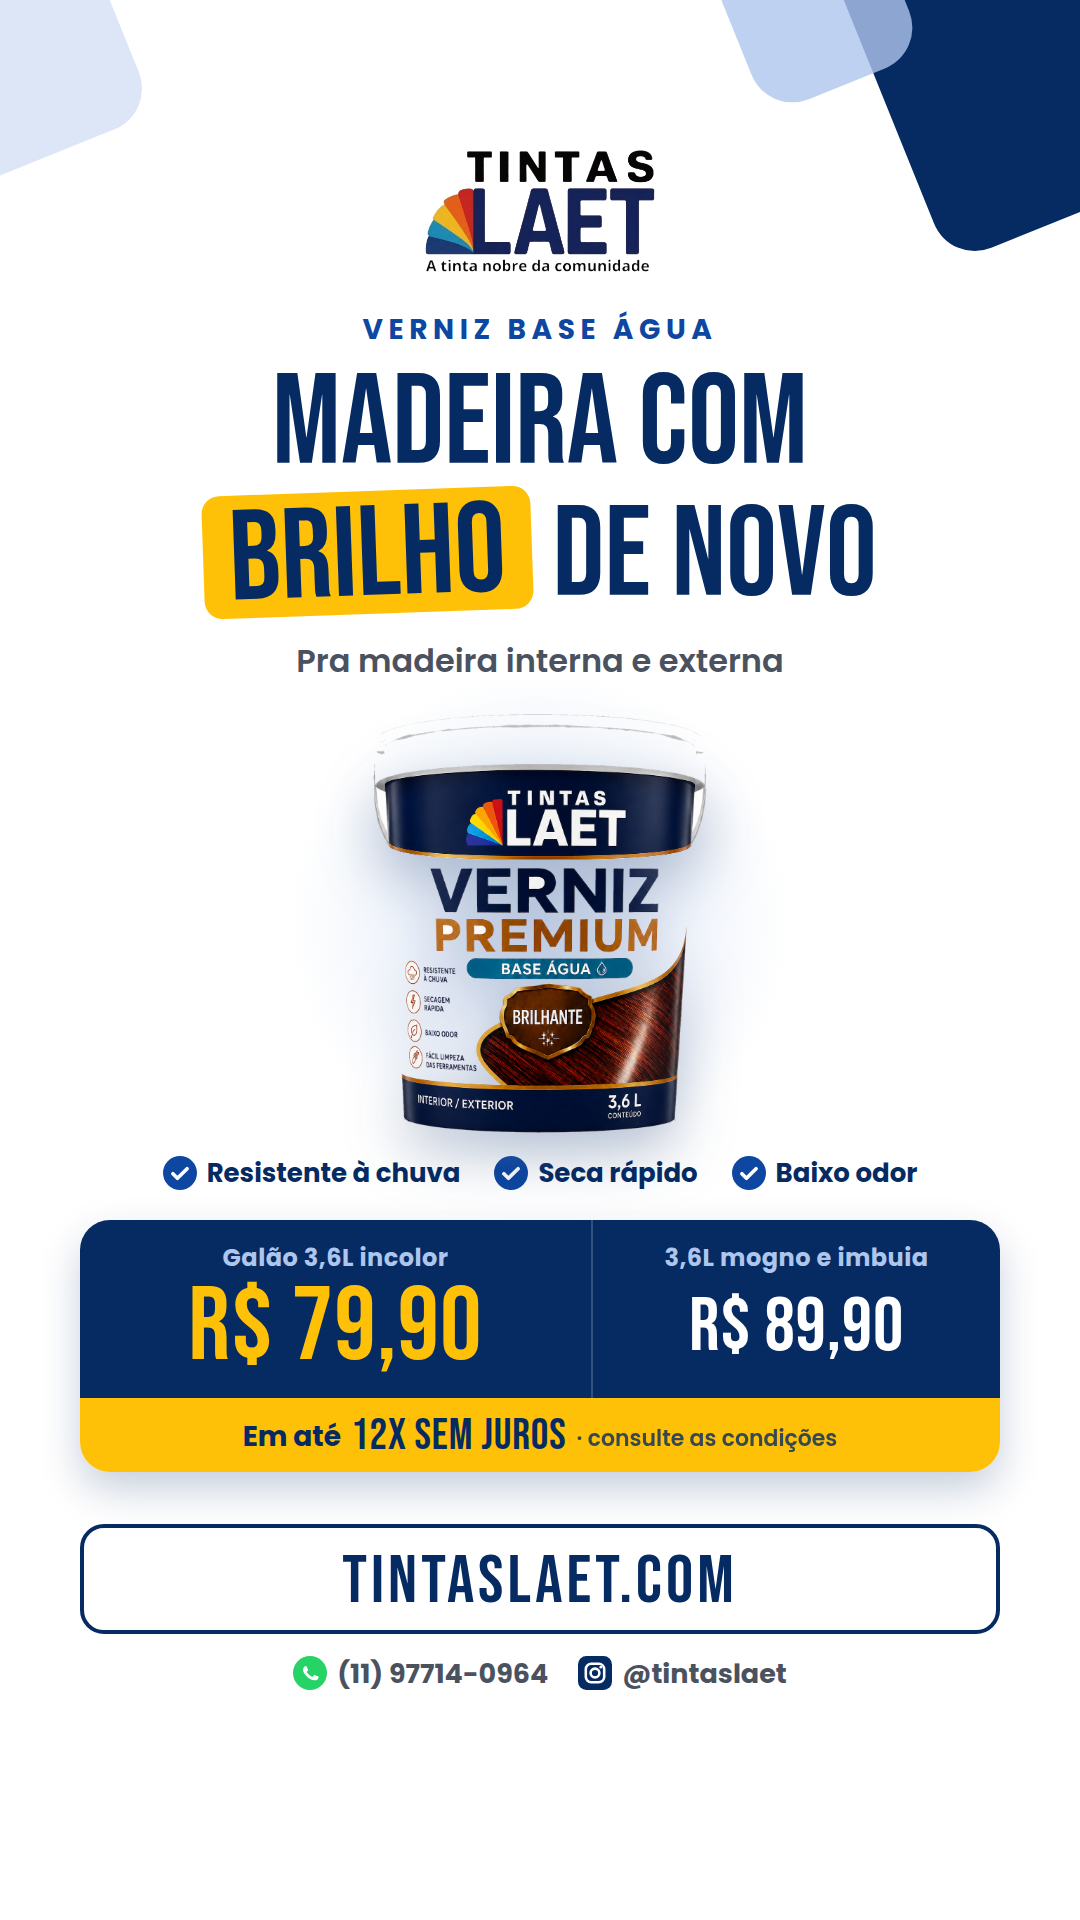
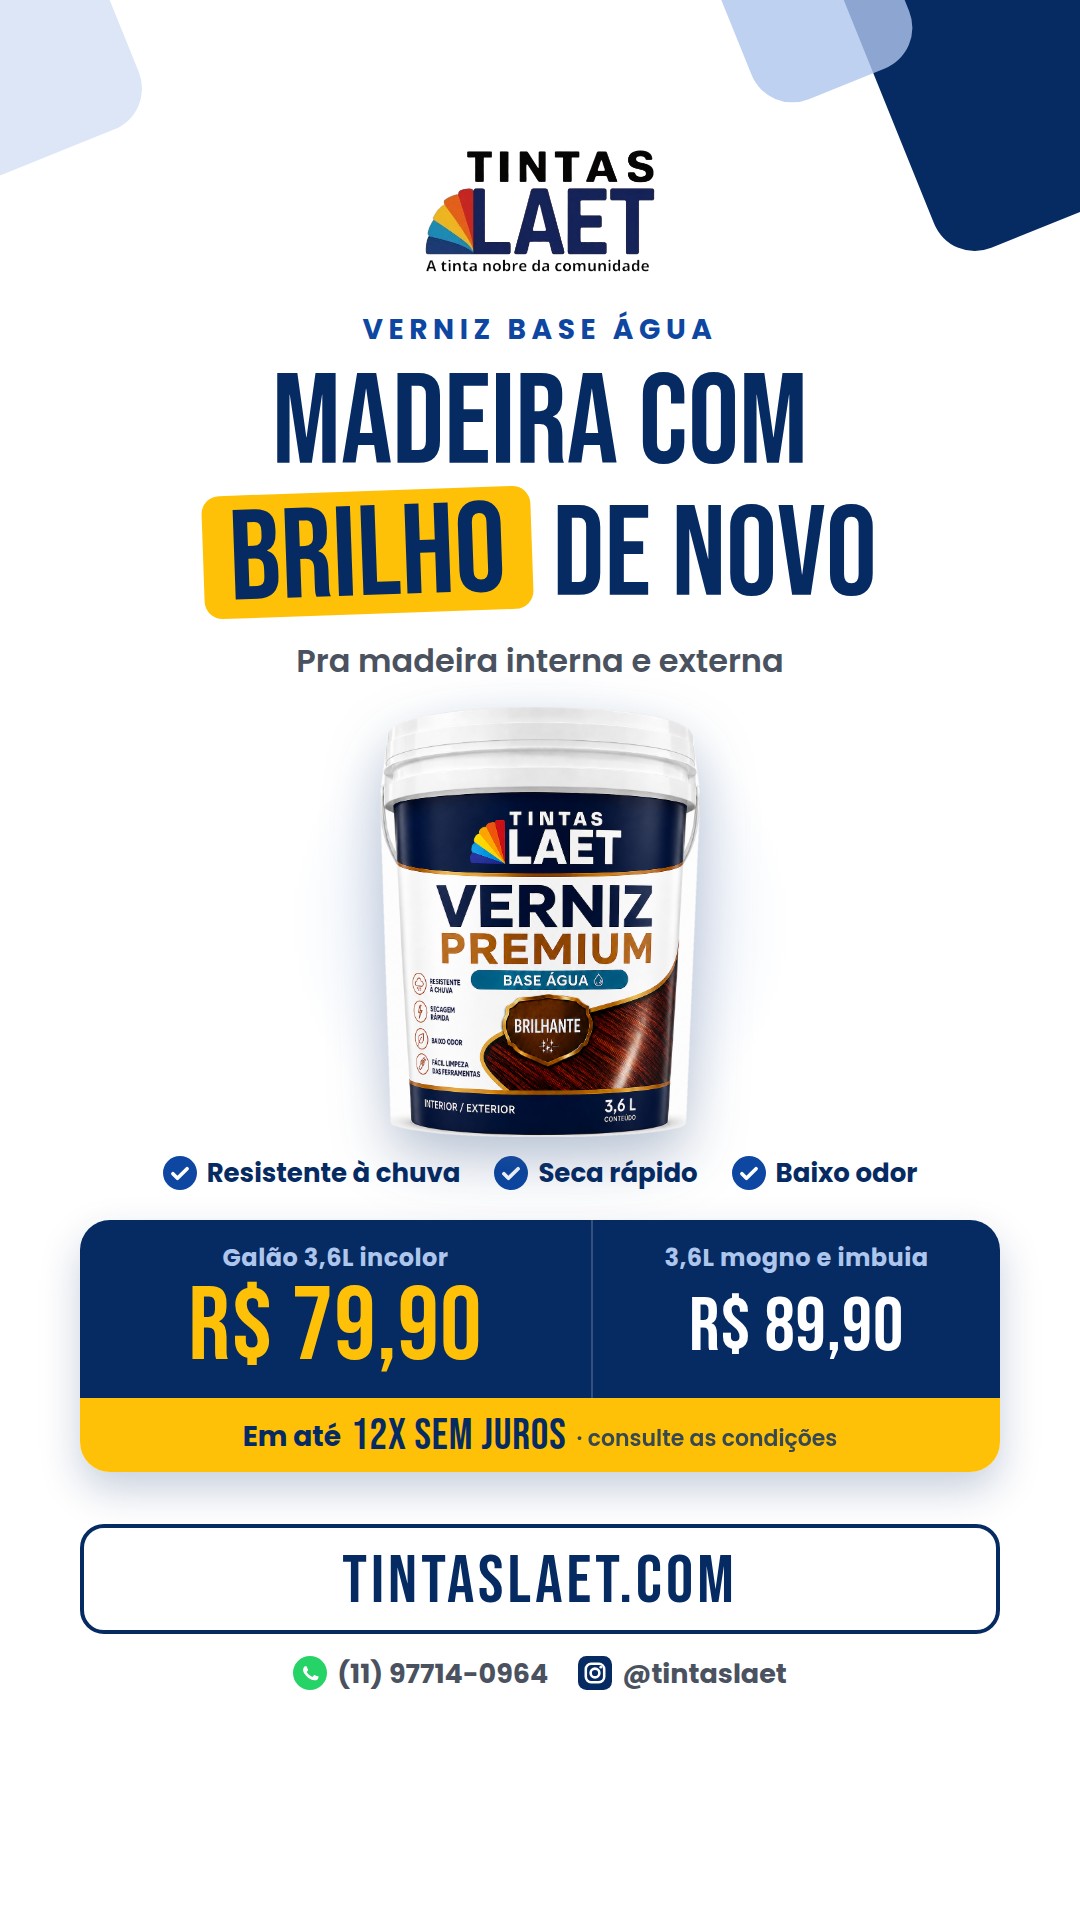
Story do verniz com imagem HD da embalagem (sem fundo)
Claude-Session: https://claude.ai/code/session_01T1juQ1HtmtgQCZ8aLE8q1u

Changed region(s): [[0.3361, 0.3438, 0.6722, 0.5938]]

diff --git a/marketing/stories/2026-10/14-produtos-individuais/modelo.html b/marketing/stories/2026-10/14-produtos-individuais/modelo.html
@@ -186,7 +186,7 @@ h1 .g{display:inline-block;line-height:.9;background:var(--amarelo);padding:8px 
     <div class="ey">Verniz Base Água</div>
     <h1>Madeira com<br><span class="g">brilho</span> de novo</h1>
     <div class="sub">Pra madeira interna e externa</div>
-    <div class="foto"><img src="img/verniz-site.png" alt="Verniz Base Água"></div>
+    <div class="foto"><img src="img/verniz-hd.png" alt="Verniz Base Água"></div>
     <div class="bul"><span><svg viewBox="0 0 24 24"><circle cx="12" cy="12" r="12" fill="#0D47A1"/><path d="M7 12.5l3.2 3.2L17 9" fill="none" stroke="#fff" stroke-width="2.6" stroke-linecap="round" stroke-linejoin="round"/></svg>Resistente à chuva</span><span><svg viewBox="0 0 24 24"><circle cx="12" cy="12" r="12" fill="#0D47A1"/><path d="M7 12.5l3.2 3.2L17 9" fill="none" stroke="#fff" stroke-width="2.6" stroke-linecap="round" stroke-linejoin="round"/></svg>Seca rápido</span><span><svg viewBox="0 0 24 24"><circle cx="12" cy="12" r="12" fill="#0D47A1"/><path d="M7 12.5l3.2 3.2L17 9" fill="none" stroke="#fff" stroke-width="2.6" stroke-linecap="round" stroke-linejoin="round"/></svg>Baixo odor</span></div>
     <div class="preco">
       <div class="lin">

diff --git a/marketing/stories/2026-10/14-produtos-individuais/stories.html b/marketing/stories/2026-10/14-produtos-individuais/stories.html
@@ -186,7 +186,7 @@ h1 .g{display:inline-block;line-height:.9;background:var(--amarelo);padding:8px 
     <div class="ey">Verniz Base Água</div>
     <h1>Madeira com<br><span class="g">brilho</span> de novo</h1>
     <div class="sub">Pra madeira interna e externa</div>
-    <div class="foto"><img src="img/verniz-site.png" alt="Verniz Base Água"></div>
+    <div class="foto"><img src="img/verniz-hd.png" alt="Verniz Base Água"></div>
     <div class="bul"><span><svg viewBox="0 0 24 24"><circle cx="12" cy="12" r="12" fill="#0D47A1"/><path d="M7 12.5l3.2 3.2L17 9" fill="none" stroke="#fff" stroke-width="2.6" stroke-linecap="round" stroke-linejoin="round"/></svg>Resistente à chuva</span><span><svg viewBox="0 0 24 24"><circle cx="12" cy="12" r="12" fill="#0D47A1"/><path d="M7 12.5l3.2 3.2L17 9" fill="none" stroke="#fff" stroke-width="2.6" stroke-linecap="round" stroke-linejoin="round"/></svg>Seca rápido</span><span><svg viewBox="0 0 24 24"><circle cx="12" cy="12" r="12" fill="#0D47A1"/><path d="M7 12.5l3.2 3.2L17 9" fill="none" stroke="#fff" stroke-width="2.6" stroke-linecap="round" stroke-linejoin="round"/></svg>Baixo odor</span></div>
     <div class="preco">
       <div class="lin">
